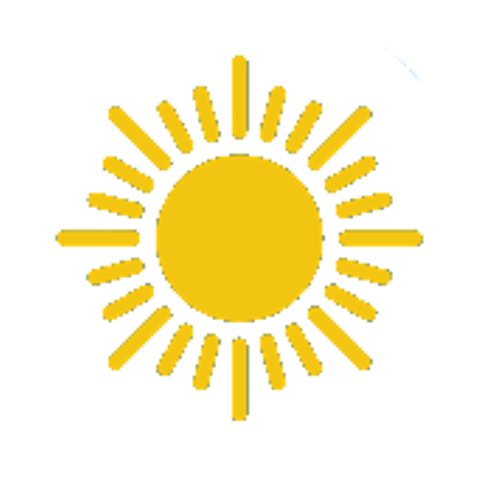
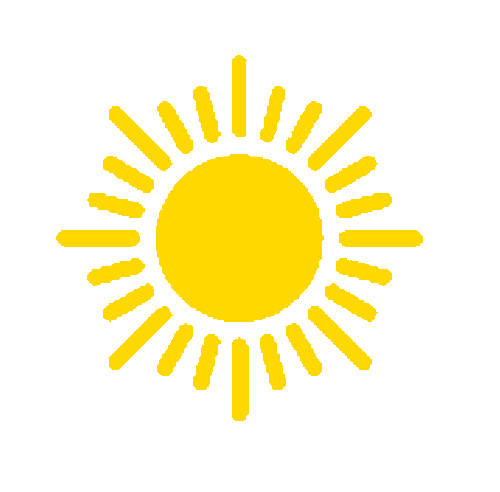
pictures adapt to the weather

Changed region(s): [[0.09, 0.0915, 0.87, 0.8537]]

diff --git a/weather_app/lib/presentation/home/homeScreen.dart b/weather_app/lib/presentation/home/homeScreen.dart
@@ -13,6 +13,33 @@ class HomeScreen extends StatefulWidget {
 }
 
 class _HomeScreenState extends State<HomeScreen> {
+  Widget getWeatherIcon(int code) {
+    switch (code) {
+      case > 200 && <= 300: // Thunderstorm
+        return Image.asset('assets/images/1-1.png');
+        break;
+      case > 300 && < 400: // Drizzle
+        return Image.asset('assets/images/2-1.png');
+        break;
+      case >= 500 && < 600: // Rain
+        return Image.asset('assets/images/2-1.png');
+        break;
+      case >= 600 && < 700: //SNOW
+        return Image.asset('assets/images/3-1.png');
+        break;
+      case >= 700 && < 800:
+        return Image.asset('assets/images/2-1.png');
+        break;
+      case == 800: // clear 
+        return Image.asset('assets/images/0-1.png');
+      case > 800 && <= 804: // cloud 
+        return Image.asset('assets/images/0-2.png');
+        break;
+      default:
+        return Image.asset('assets/images/0-1.png');
+    }
+  }
+
   @override
   Widget build(BuildContext context) {
     return Scaffold(
@@ -92,11 +119,7 @@ class _HomeScreenState extends State<HomeScreen> {
                                 fontSize: 25,
                                 fontWeight: FontWeight.bold),
                           ),
-                          Image.asset(
-                            'assets/images/0-1.png',
-                            width: 600,
-                            height: 400,
-                          ),
+                          getWeatherIcon(state.weather.weatherConditionCode!),
                           Center(
                             child: Text(
                               '${state.weather.temperature!.celsius!.round()}°C',
@@ -125,8 +148,8 @@ class _HomeScreenState extends State<HomeScreen> {
                           ),
                         ]),
                   );
-                }else{
-                  return Container(); // TODO: Failure 
+                } else {
+                  return Container(); // TODO: Failure
                 }
               },
             ),
